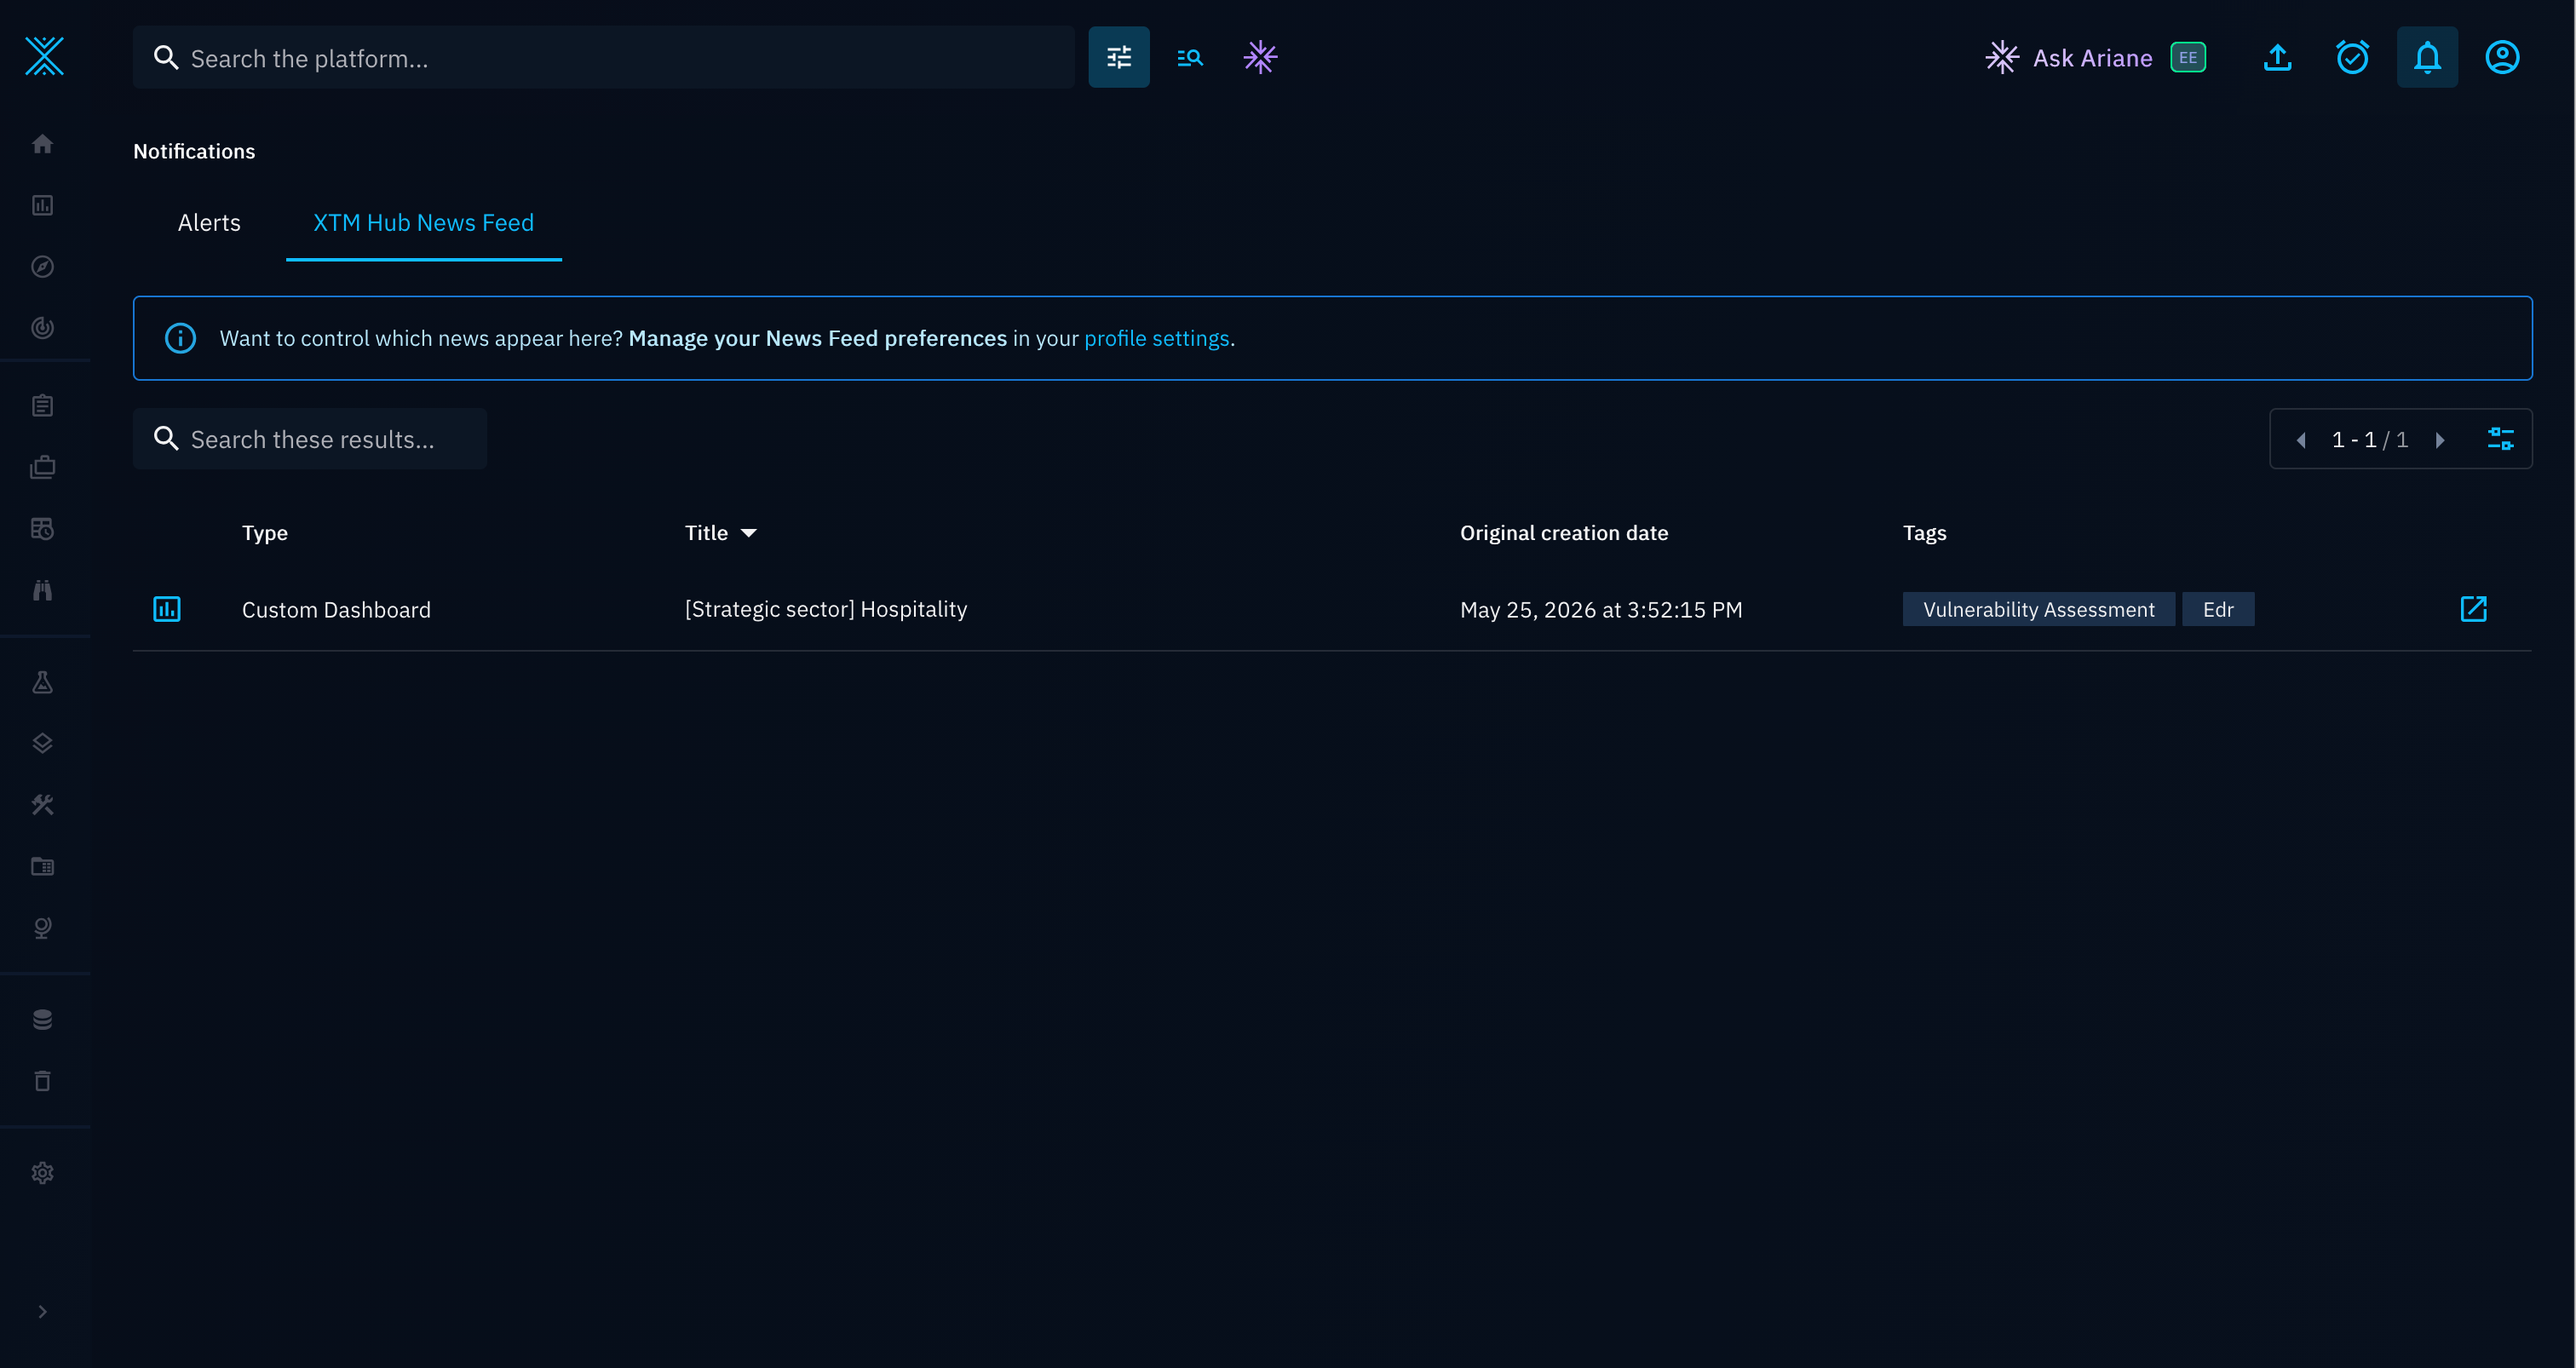
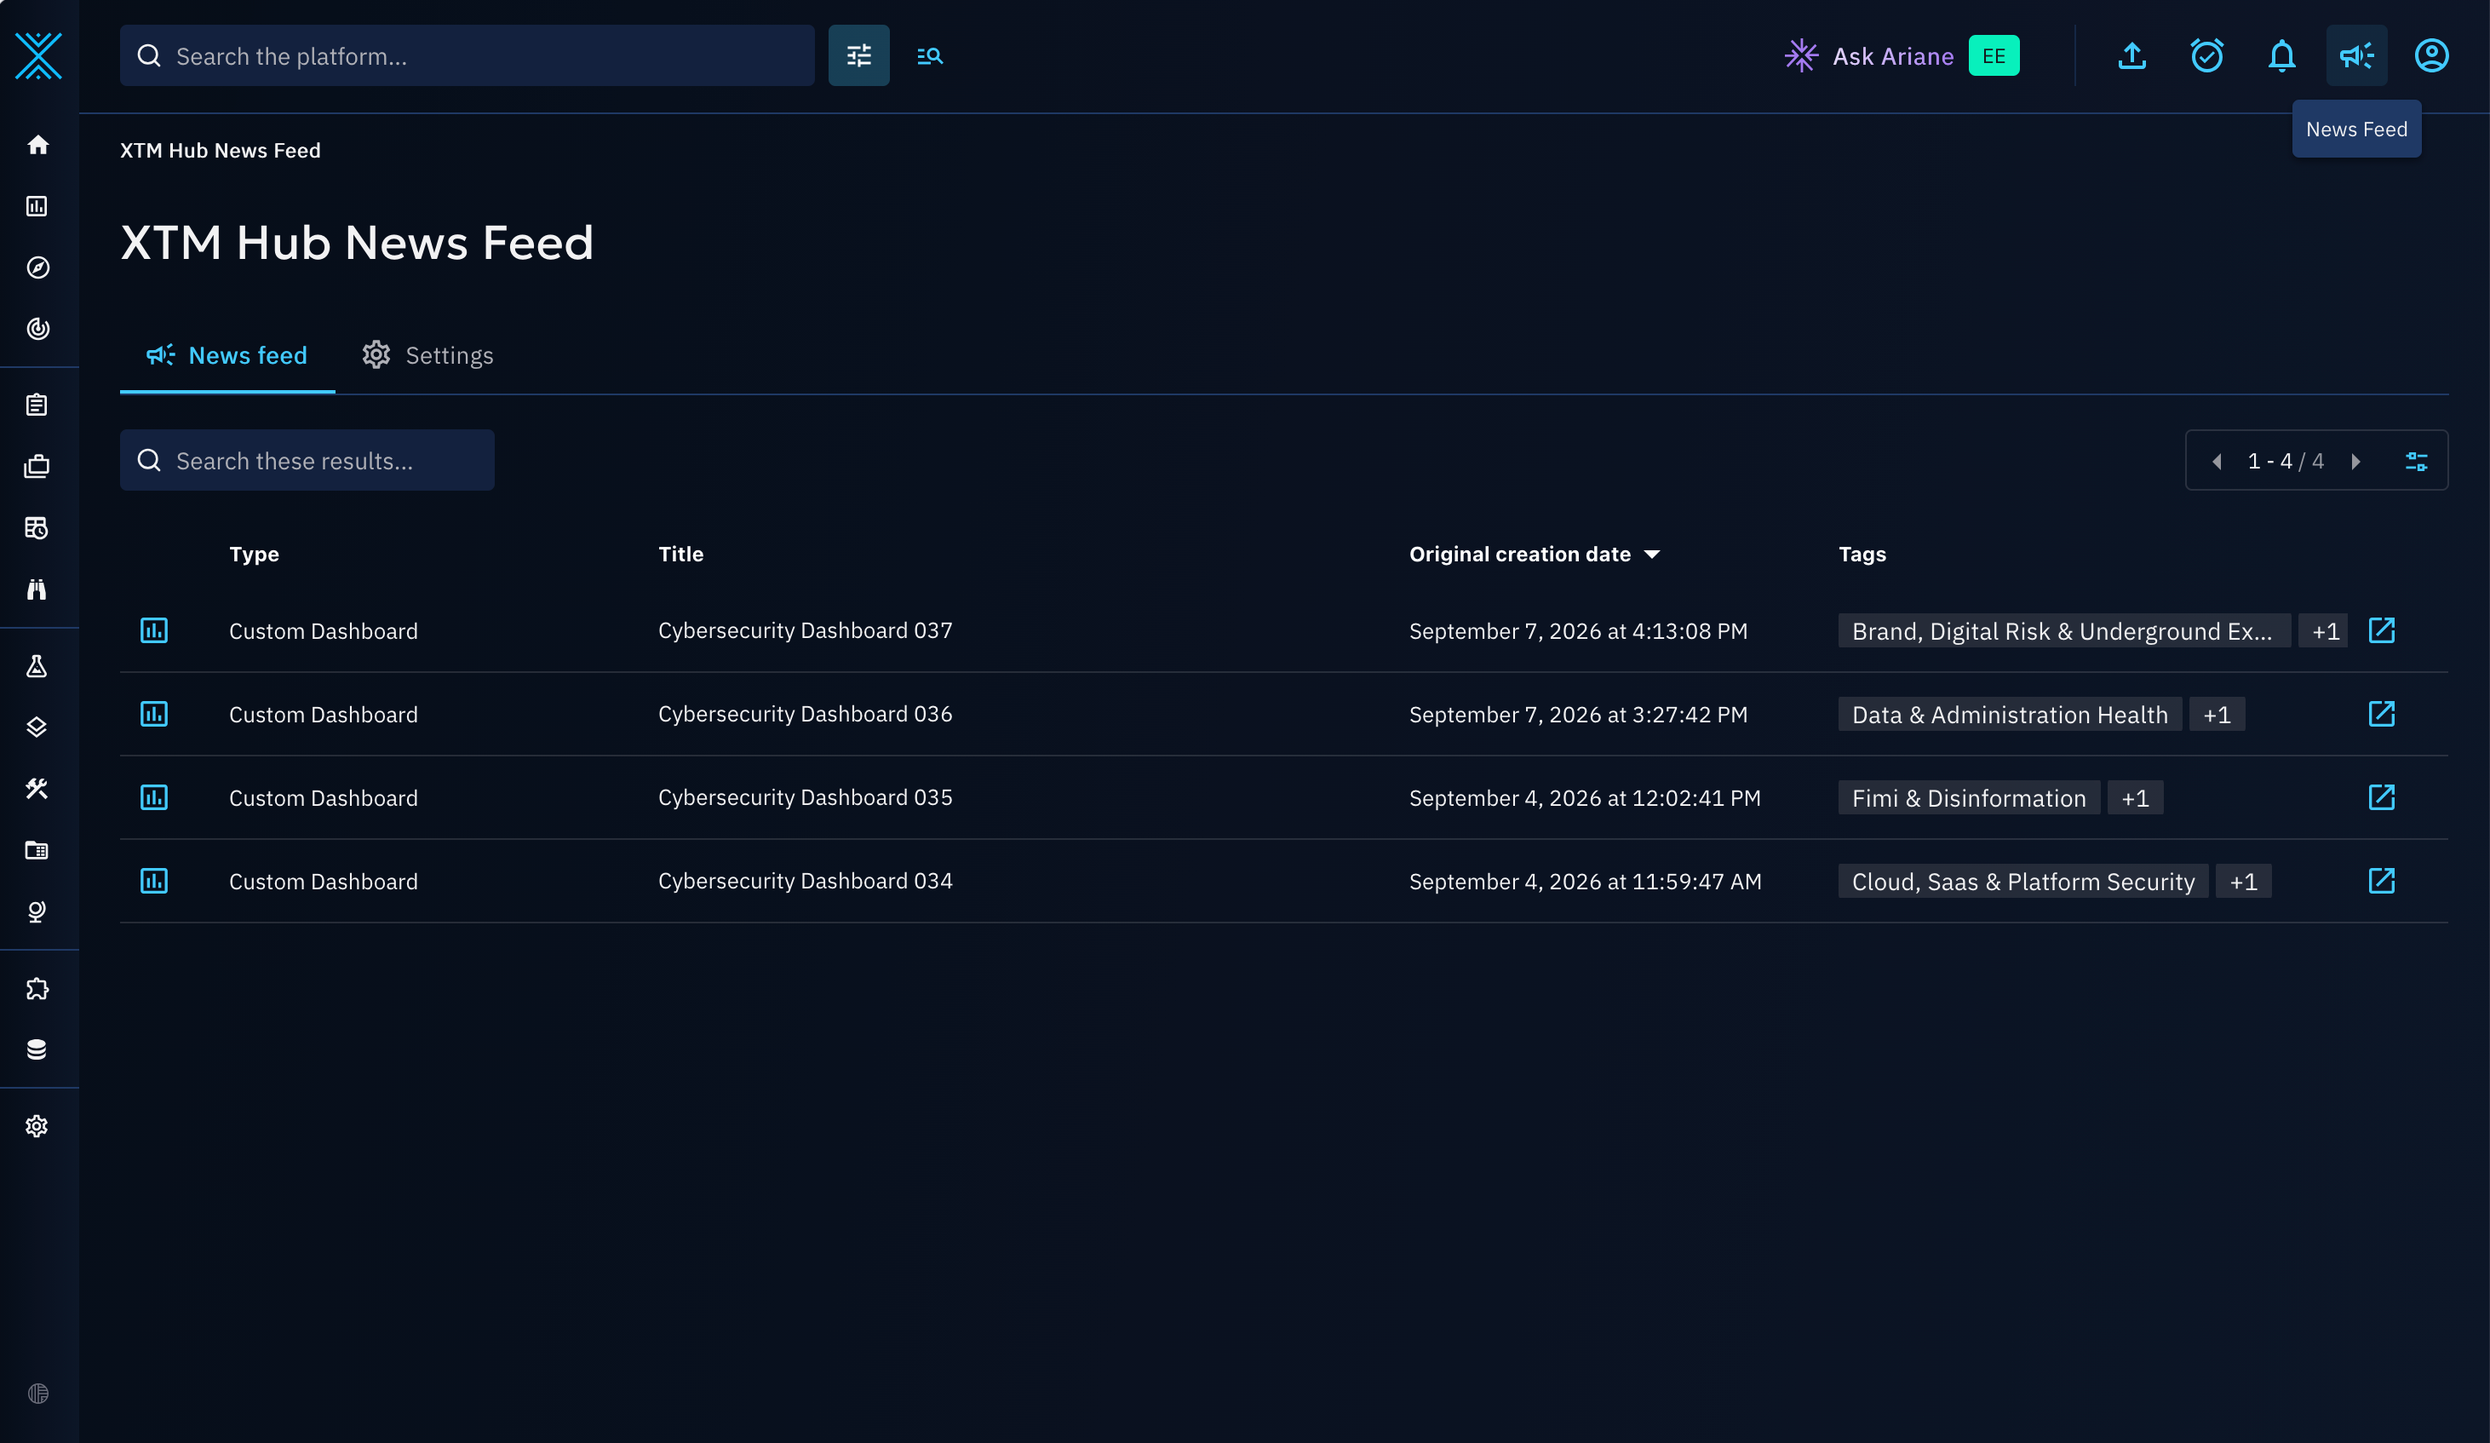
docs(news-feed): update XTM Hub docs with new page (#18233)

diff --git a/docs/docs/administration/hub.md b/docs/docs/administration/hub.md
@@ -1,49 +1,49 @@
 # XTM Hub
 
-Welcome to the guide on registering your OpenCTI platform with the XTM Hub.
+Welcome to the guide on connecting your OpenCTI product with the XTM Hub.
 
 ## Introduction
 
-This document will guide you through the steps required to register or unregister your OpenCTI platform with the XTM Hub.
+This document will guide you through the steps required to connect or disconnect your OpenCTI product with the XTM Hub.
 
-## Registering Your Platform
+## Connecting Your Product
 
-To register your OpenCTI platform into the XTM Hub, follow these steps:
+To connect your OpenCTI product to the XTM Hub, follow these steps:
 
 1. **Access the Settings:**
     - Ensure you have the necessary permissions.
     - Navigate to the Filigran Experience page in settings section.
 
-2. **Initiate Registration:**
-    - Click on the "Register in XTM Hub" button.
+2. **Initiate Connection:**
+    - Click on the "Connect to XTM Hub" button.
     - A new tab will open with your XTM Hub account.
 
 3. **Log In:**
     - Log in with your account credentials.
-    - Choose the organization where you want to register your OpenCTI platform.
+    - Choose the organization where you want to connect your OpenCTI product.
 
-4. **Complete Registration:**
-    - Once registration is complete, you will be redirected back to your OpenCTI platform.
-    - The XTM Hub administrators will be informed that an OpenCTI platform is registered.
+4. **Complete Connection:**
+    - Once the connection is complete, you will be redirected back to your OpenCTI product.
+    - The XTM Hub administrators will be informed that an OpenCTI product is connected.
 
-## Unregistering Your Platform
+## Disconnecting Your Product
 
-To unregister your platform, follow these steps:
+To disconnect your product, follow these steps:
 
 1. **Eligibility:**
-    - If your platform is already registered, you will have the option to unregister it.
+    - If your product is already connected, you will have the option to disconnect it.
 
-2. **Unregistering Process:**
-    - This action will remove the link between your OpenCTI platform and the XTM Hub, thus disabling access to the XTM hub features.
-    - Go to the XTM Hub settings page and click on the "Unregister" button.
+2. **Disconnecting Process:**
+    - This action will remove the link between your OpenCTI product and the XTM Hub, thus disabling access to the XTM hub features.
+    - Go to the XTM Hub settings page and click on the "Disconnect" button.
 
-3. **Re-registration:**
-    - Don't worry; it’s possible to re-register your platform at any time.
-    - The platform will be automatically registered on the same organization.
+3. **Reconnection:**
+    - Don't worry; it’s possible to reconnect your product at any time.
+    - The product will be automatically connected on the same organization.
 
 ## Connectivity Check
 
-Your OpenCTI platform will regularly check if the connection with the XTM Hub is still active:
+Your OpenCTI product will regularly check if the connection with the XTM Hub is still active:
 
 - **Continuous Monitoring:**
     - Connectivity is automatically monitored to ensure it is functioning properly.

diff --git a/docs/docs/usage/xtm-hub-news-feed.md b/docs/docs/usage/xtm-hub-news-feed.md
@@ -16,37 +16,38 @@ These notifications help you quickly detect new content and decide whether to im
 
 ## How do I do it?
 
-### 1. Register your platform to XTM Hub
+### 1. Connect your platform to XTM Hub
 
-Your OpenCTI platform must be registered to XTM Hub before you can receive News Feed notifications.
+Your OpenCTI platform must be connected to XTM Hub before you can receive News Feed notifications.
 
-Follow the registration steps in [XTM Hub registration](../administration/hub.md).
+Follow the connection steps in [XTM Hub connection](../administration/hub.md).
 
-After registration, OpenCTI automatically receives notifications when new content is published on XTM Hub.
+After connecting, OpenCTI automatically receives notifications when new content is published on XTM Hub every hour.
+
+Old news feed items are deleted after 6 months.
 
 ![News Feed toast](assets/news-feed-toast.png)
 
 ### 2. View all News Feed items
 
-1. Click the bell icon in the top-right corner.
-2. Open the notifications page.
-3. Review XTM Hub News Feed items in your notification list.
+1. Click the megaphone icon in the top-right corner.
+2. Review XTM Hub News Feed items in the **News feed** tab.
 
 ![News Feed notifications page](assets/news-feed-datatable.png)
 
 !!! note
-    News Feed notifications are automatically marked as read when you open the News Feed notifications page.
+    News Feed items are automatically marked as read when you open the News Feed page.
 
 ### 3. Update your News Feed preferences
 
-1. Open your user menu in the top-right corner.
-2. Open your profile.
+1. Click the megaphone icon in the top-right corner.
+2. Switch to the **Settings** tab.
 3. Update your News Feed preferences.
 
 ![News Feed preferences in profile page](assets/news-feed-update-preferences.png)
 
-!!! warning
-    If you disable all feeds in your preferences, you no longer receive XTM Hub News Feed notifications and the News Feed notifications page is hidden.
+!!! note
+    The News Feed page is always accessible, even if you disable all feeds in your preferences. If you disable all feeds, you no longer receive XTM Hub News Feed notifications.
 
 ## Example
 
